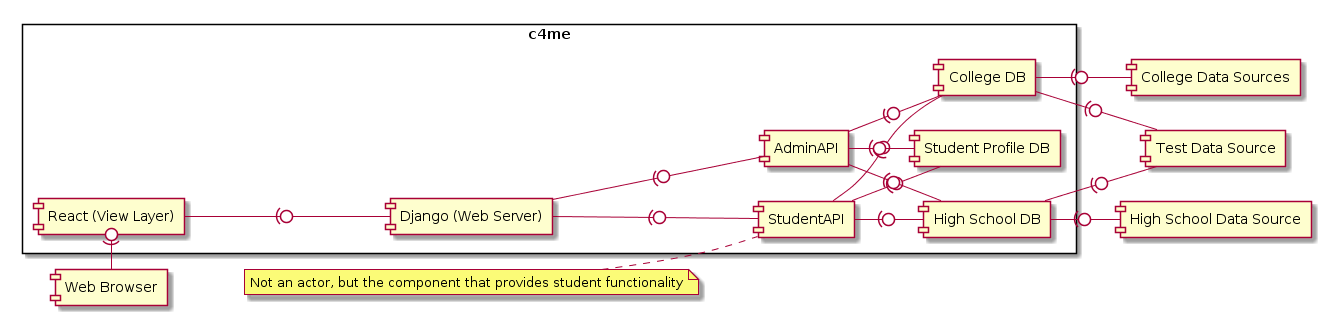
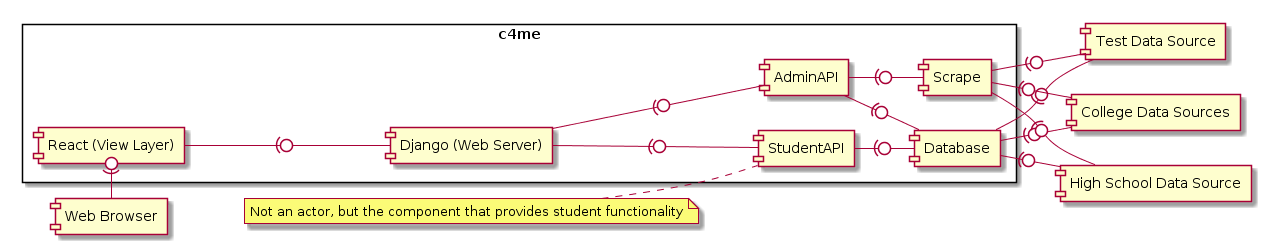
Modified file names. Updated UML diagrams. (Component, Frontend Class Dia)

diff --git a/frontend/src/components/college/CollegeInfo.js b/frontend/src/components/college/CollegeInfo.js
@@ -4,7 +4,7 @@ import Card from '@material-ui/core/Card';
 import CardContent from '@material-ui/core/CardContent';
 import Typography from '@material-ui/core/Typography';
 import Grid from '@material-ui/core/Grid';
-import ApplicationTracker from '../college/ApplicationTracker';
+import ApplicationTracker from './ApplicationTracker';
 
 const useStyles = makeStyles({
   root: {

diff --git a/frontend/src/components/search/Search.js b/frontend/src/components/search/Search.js
@@ -135,8 +135,8 @@ export default function Search(props) {
 
                         <Grid item md={12}>
                             <SizeFilter id='size' navigate={navigate} />
+                            <br /><br /><br /><br />  <br /><br /><br /><br />
                         </Grid>
-
                     </Grid>
                 </Grid>
 

diff --git a/frontend/src/components/college/CollegeProfile.js b/frontend/src/components/college/CollegeProfile.js
@@ -14,7 +14,7 @@ import TableHead from '@material-ui/core/TableHead';
 import TableRow from '@material-ui/core/TableRow';
 import NotFound from "../NotFound";
 import SimpleTabs from "./collegeTabComponent";
-import SimpleCard from "./CollegeCard";
+import SimpleCard from "./CollegeInfo";
 
 const useStyles = makeStyles(theme => ({
     body: {
